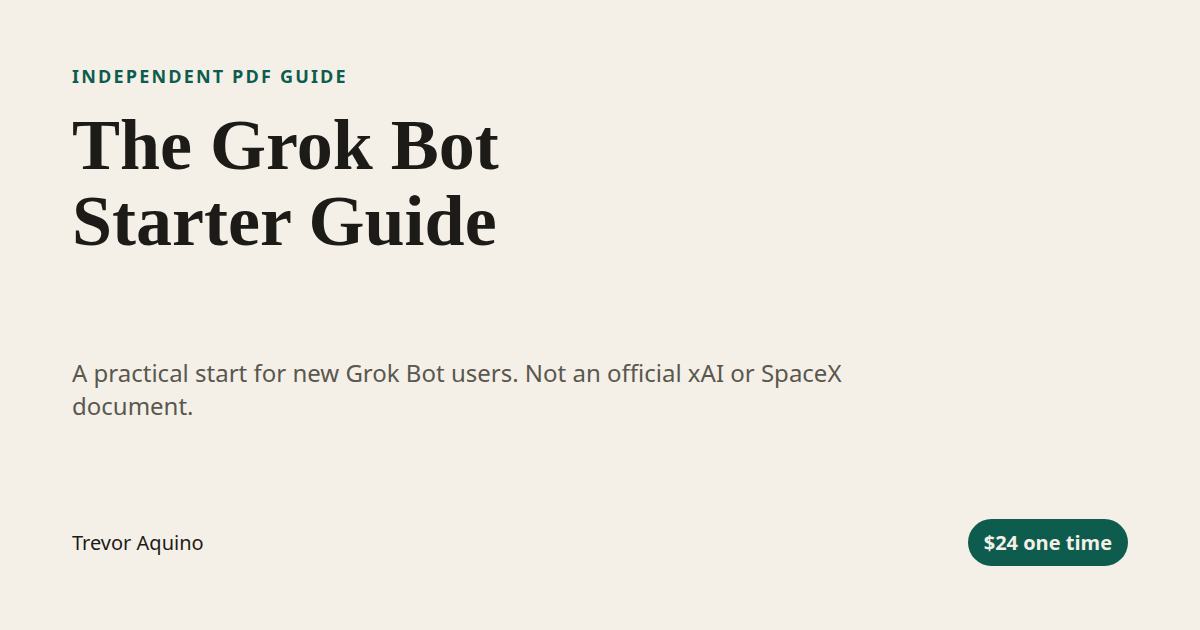
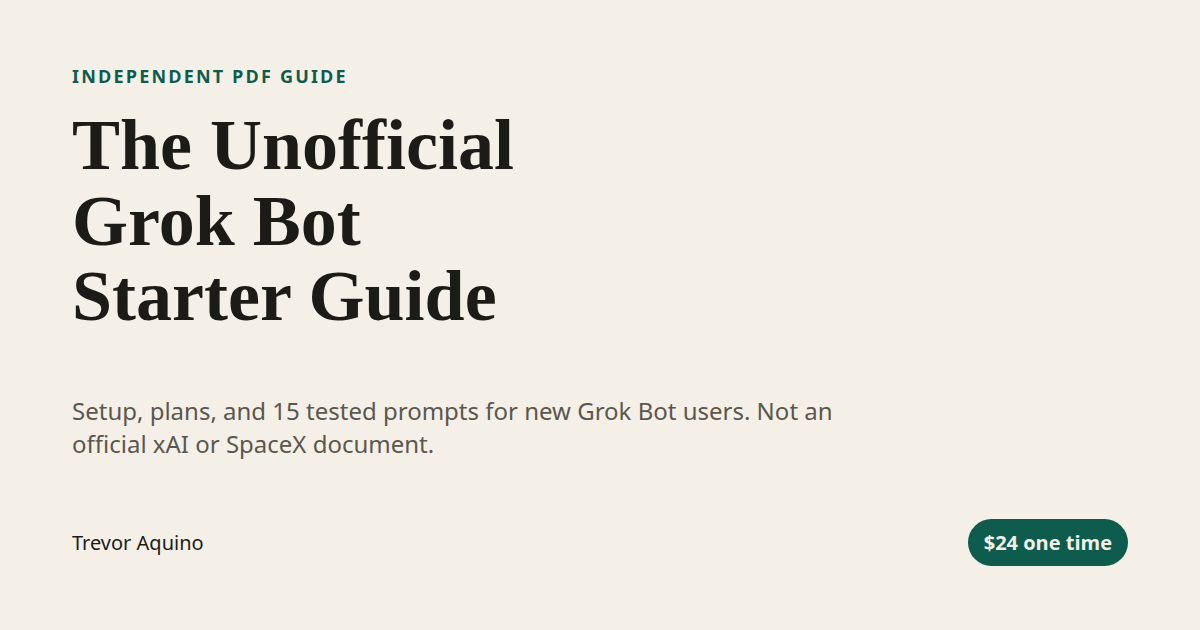
Regenerate OG image with updated brand title
Update assets/og-card.html text to the current brand name and
copy, and re-render assets/og-image.png (1200x630) from it with
headless Chrome so the social preview matches the new title.

diff --git a/assets/og-card.html b/assets/og-card.html
@@ -58,9 +58,9 @@
   <body>
     <div>
       <p class="kicker">Independent PDF guide</p>
-      <h1>The Grok Bot Starter Guide</h1>
+      <h1>The Unofficial Grok Bot Starter Guide</h1>
     </div>
-    <p>A practical start for new Grok Bot users. Not an official xAI or SpaceX document.</p>
+    <p>Setup, plans, and 15 tested prompts for new Grok Bot users. Not an official xAI or SpaceX document.</p>
     <div class="foot">
       <span>Trevor Aquino</span>
       <span class="badge">$24 one time</span>
